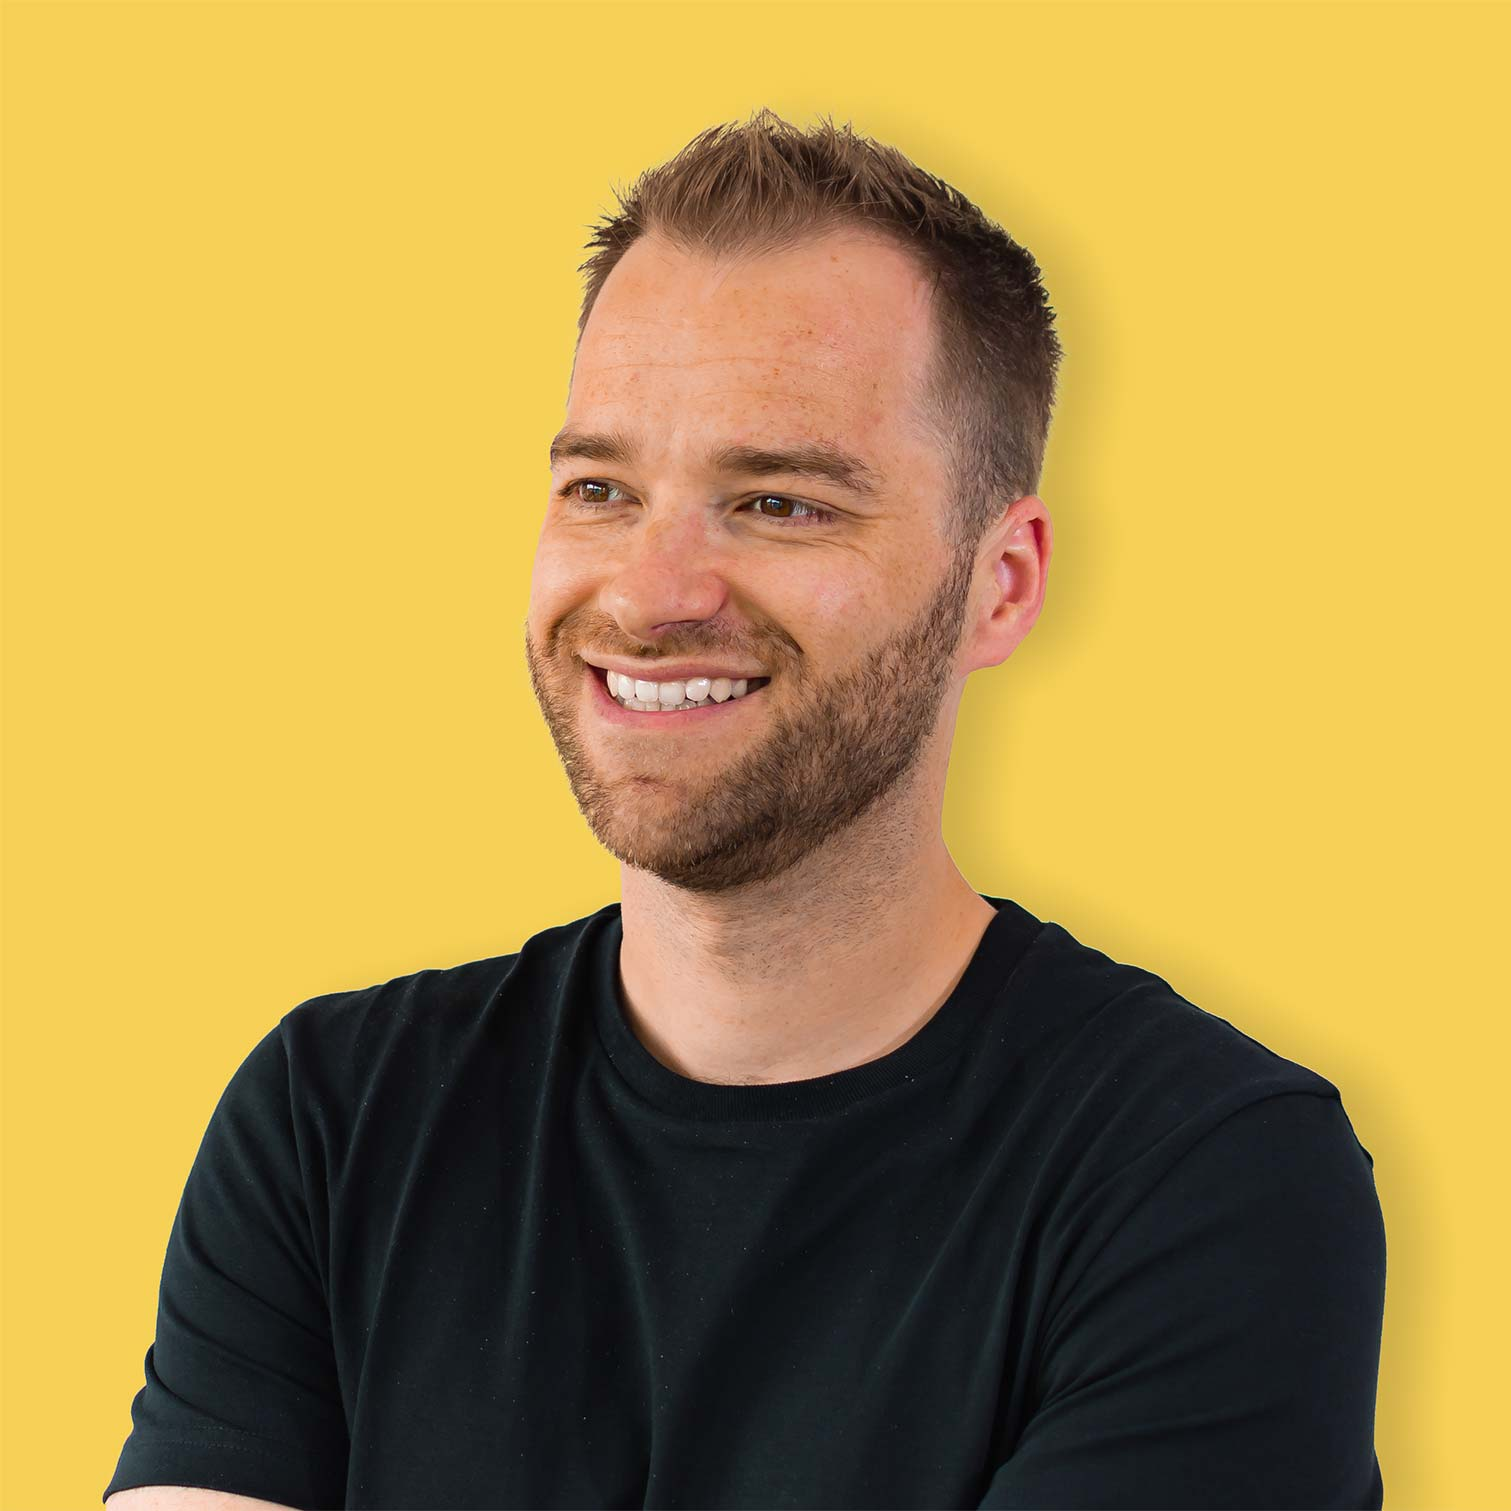
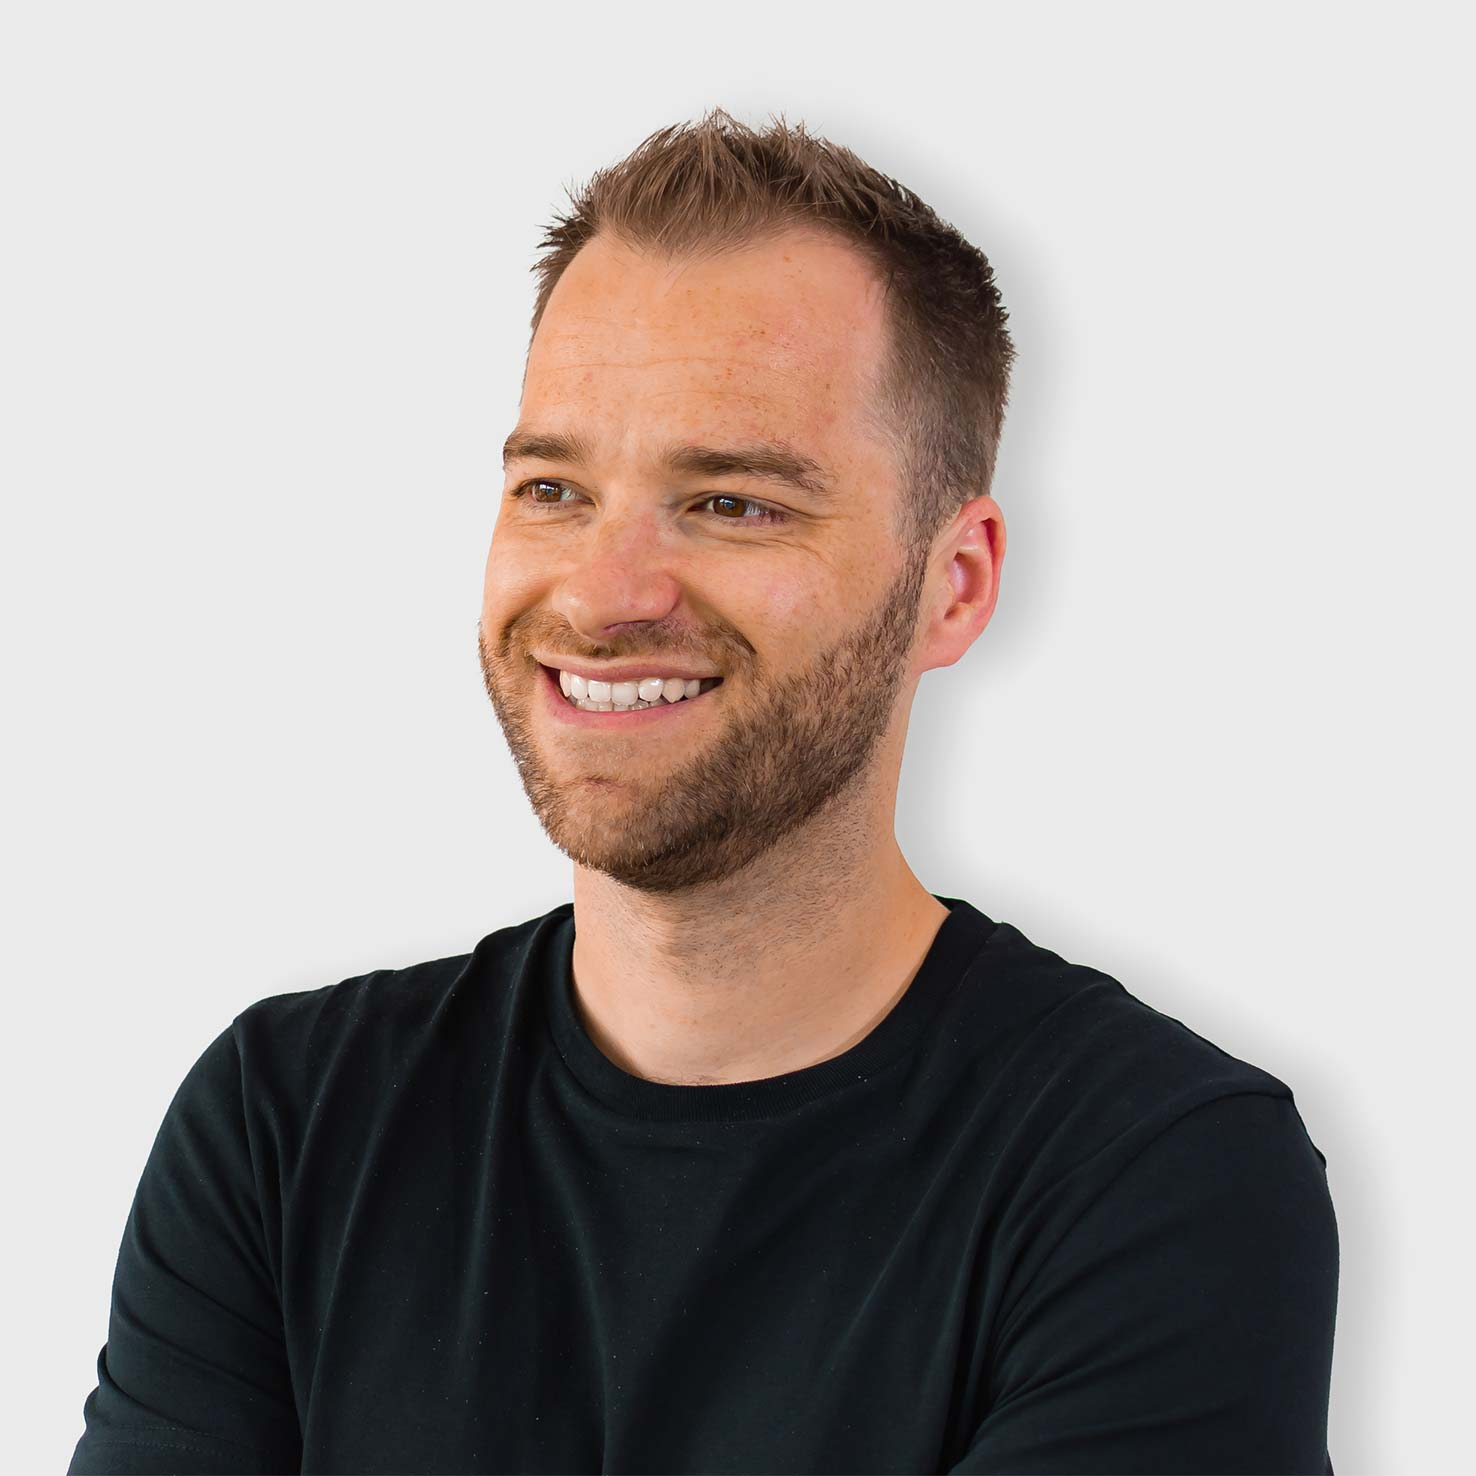
About page updates

diff --git a/assets/css/application.css b/assets/css/application.css
@@ -871,7 +871,7 @@ ul.tags {
     margin: 3px 2px;
     border-radius: 0.2em;
     padding: 0.25em 0.5em;
-    background: rgba(0, 0, 0, 0.05);
+    background: #eaeaea;
     list-style: none; }
 
 .box {
@@ -879,7 +879,7 @@ ul.tags {
   margin-bottom: 1em;
   border-radius: 0.5em;
   padding: 1em;
-  background: rgba(0, 0, 0, 0.05); }
+  background: #eaeaea; }
   .box > :last-child {
     margin-bottom: 0; }
   .box h3 {
@@ -929,11 +929,11 @@ ul.social {
 footer[role="contentinfo"] {
   padding: 3em 0;
   text-align: center;
-  color: #eee; }
+  color: #eaeaea; }
   .case-study footer[role="contentinfo"] {
     padding-bottom: 5em; }
   footer[role="contentinfo"] a {
-    color: #eee; }
+    color: #eaeaea; }
   footer[role="contentinfo"] div.info {
     font-size: 0.9em; }
     footer[role="contentinfo"] div.info > p:first-child {
@@ -957,10 +957,13 @@ section.contact {
   text-align: center; }
 
 section.about div.intro {
-  overflow: hidden; }
+  overflow: hidden;
+  text-align: center; }
   @media (min-width: 769px) {
     section.about div.intro {
-      background: #F6D056; }
+      border-bottom: 0.75em solid #1b1b1b;
+      background: #eaeaea;
+      text-align: left; }
       section.about div.intro div.wrap {
         position: relative;
         padding: 4em;
@@ -1146,7 +1149,7 @@ section.featured-work.swiper-carousel {
         background-size: auto 100%; }
 
 section.client-logos {
-  background: #eee; }
+  background: #eaeaea; }
   @media (min-width: 769px) {
     section.client-logos {
       padding-bottom: 2em; } }
@@ -1258,7 +1261,7 @@ figure.avatar {
   max-width: 10em; }
   figure.avatar img {
     display: block;
-    border: 0.6em solid #eee;
+    border: 0.6em solid #eaeaea;
     border-radius: 50%;
     width: 100%;
     box-sizing: border-box; }
@@ -1266,7 +1269,7 @@ figure.avatar {
       border-color: rgba(255, 255, 255, 0.05); }
       @media (min-width: 769px) {
         .home figure.avatar img {
-          border-color: #eee; } }
+          border-color: #eaeaea; } }
 
 section.testimonials {
   text-align: center; }
@@ -1294,7 +1297,7 @@ ul.quotes {
         margin-bottom: 1.75em;
         border-radius: 0.75em;
         padding: 1em;
-        background: rgba(0, 0, 0, 0.075); }
+        background: #eaeaea; }
         @media (min-width: 769px) {
           ul.quotes li blockquote div {
             padding: 1.5em; } }
@@ -1304,7 +1307,7 @@ ul.quotes {
           left: 46%;
           border: solid transparent;
           border-width: 0 0.9em 1.3em 0;
-          border-right-color: rgba(0, 0, 0, 0.075);
+          border-right-color: #eaeaea;
           content: ""; }
         ul.quotes li blockquote div p {
           margin-bottom: 1em;
@@ -1349,7 +1352,7 @@ section.work {
       margin-top: 0.5em;
       border-radius: 0.5em;
       padding: 0.5em 1em;
-      background: #e5e5e5;
+      background: #eaeaea;
       font-size: 0.4em;
       text-transform: uppercase;
       font-weight: 700;
@@ -1366,7 +1369,7 @@ section.work {
       z-index: 1;
       margin-left: -2px;
       width: 4px;
-      background: #e5e5e5;
+      background: #eaeaea;
       content: ""; }
     section.work ol.timeline:after {
       position: absolute;
@@ -1377,7 +1380,7 @@ section.work {
       border-radius: 50%;
       width: 1em;
       height: 1em;
-      background: #e5e5e5;
+      background: #eaeaea;
       content: ""; }
     section.work ol.timeline li {
       position: relative;
@@ -1393,7 +1396,7 @@ section.work {
             left: 50%;
             right: 0;
             margin-top: -2px;
-            border-top: 4px dotted #e5e5e5;
+            border-top: 4px dotted #eaeaea;
             height: 0;
             content: ""; }
           section.work ol.timeline li:nth-child(odd) {
